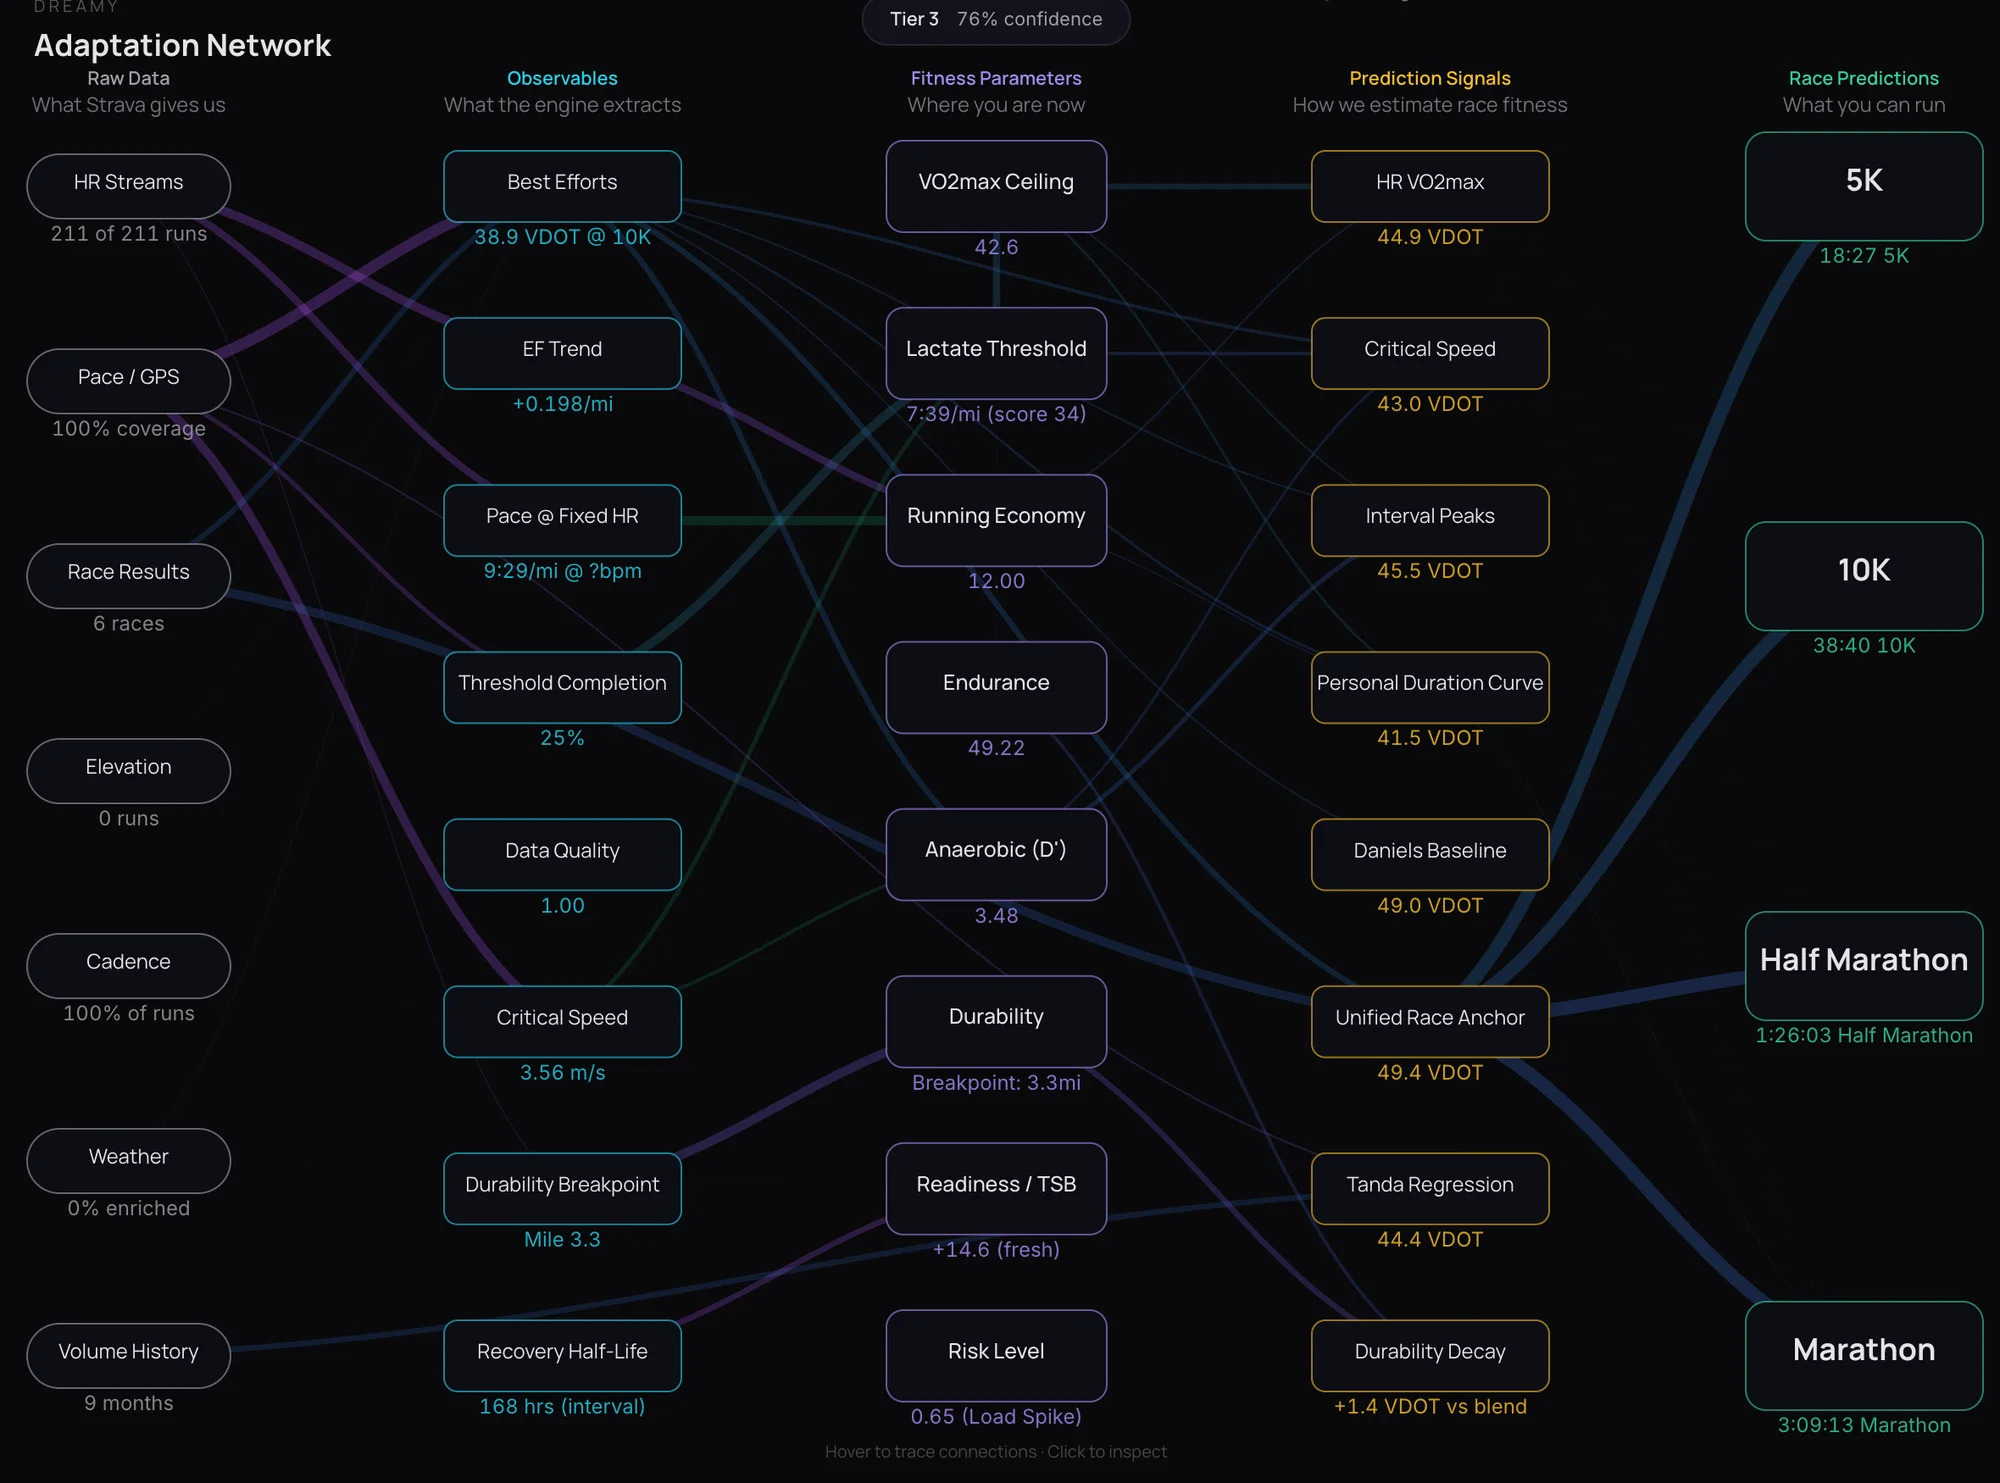
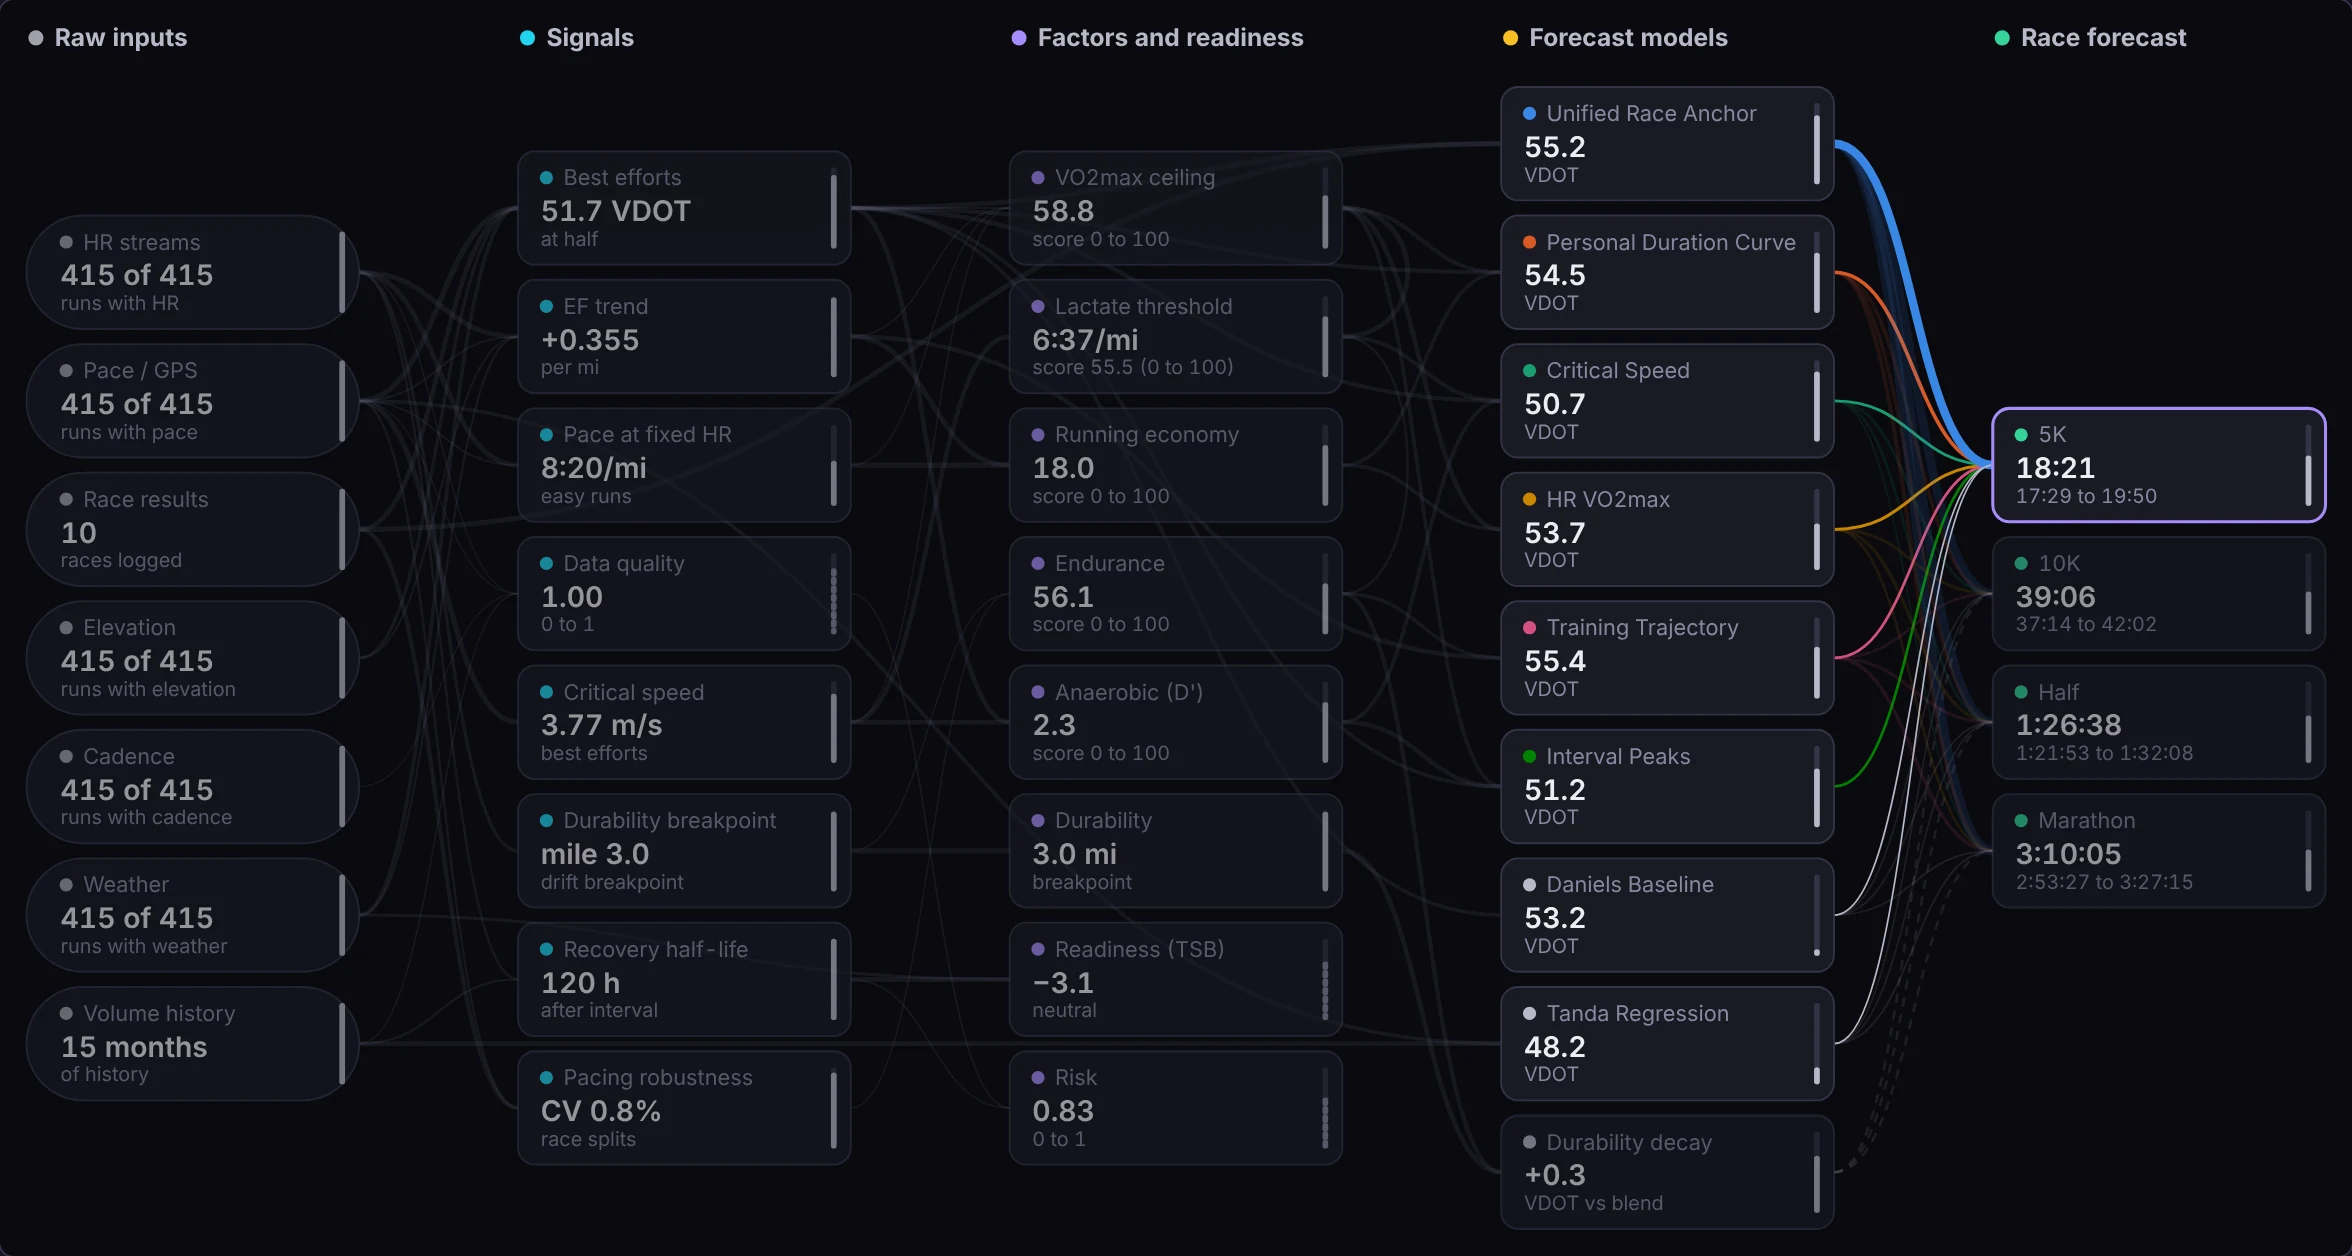
Dreamy: network screenshot shows every forecast model's blend line, no eyebrow
Claude-Session: https://claude.ai/code/session_01P2euy98vwFvpg78DoXYL2o

diff --git a/dreamy.html b/dreamy.html
@@ -1425,7 +1425,7 @@ html.lb-open { overflow: hidden; }
     <section class="sec" id="screens" aria-labelledby="sc-h">
       <h2 id="sc-h">Screenshots</h2>
       <div class="gallery">
-        <figure class="shot wide"><a href="img/dreamy-network.webp" data-full="img/dreamy-network.webp" aria-label="Full screen: The adaptation network for a demo runner: raw data such as heart rate, pace and race results on the left, what the engine extracts from it, fitness parameters like VO2max ceiling, lactate threshold and durability, the prediction signals, and race predictions for the 5K, 10K, half marathon and marathon on the right, with lines connecting each step."><img src="img/dreamy-network.webp" width="2000" height="1483" alt="The adaptation network for a demo runner: raw data such as heart rate, pace and race results on the left, what the engine extracts from it, fitness parameters like VO2max ceiling, lactate threshold and durability, the prediction signals, and race predictions for the 5K, 10K, half marathon and marathon on the right, with lines connecting each step." loading="lazy" decoding="async" style="background-color:#0E0F12"></a><figcaption>How the engine gets from run data to race predictions, for a demo runner</figcaption></figure>
+        <figure class="shot wide"><a href="img/dreamy-network.webp" data-full="img/dreamy-network.webp" aria-label="Full screen: The adaptation network for a demo runner: raw inputs such as heart rate, pace and race results on the left, the signals the engine extracts, factors like VO2max ceiling, lactate threshold and durability, ten forecast models, and race forecasts for the 5K, 10K, half marathon and marathon on the right. The 5K is selected, and every forecast model feeds it, with the Unified Race Anchor as the thickest line."><img src="img/dreamy-network.webp" width="2352" height="1256" alt="The adaptation network for a demo runner: raw inputs such as heart rate, pace and race results on the left, the signals the engine extracts, factors like VO2max ceiling, lactate threshold and durability, ten forecast models, and race forecasts for the 5K, 10K, half marathon and marathon on the right. The 5K is selected, and every forecast model feeds it, with the Unified Race Anchor as the thickest line." loading="lazy" decoding="async" style="background-color:#13141B"></a><figcaption>How the engine gets from run data to race predictions, for a demo runner</figcaption></figure>
         <figure class="shot"><a href="img/dreamy-today-crop.webp" data-full="img/dreamy-today-crop.webp" aria-label="Full screen: Today screen with a race countdown and the day's easy run."><img src="img/dreamy-today-crop.webp" width="960" height="510" alt="Today screen with a race countdown and the day's easy run." loading="lazy" decoding="async" style="background-color:#1B1B27"></a><figcaption>Today, three days before a half marathon</figcaption></figure>
         <figure class="shot"><a href="img/dreamy-week-crop.webp" data-full="img/dreamy-week-crop.webp" aria-label="Full screen: This Week screen after one swap: Wednesday's tempo became a rest day and Thursday carries the quality session."><img src="img/dreamy-week-crop.webp" width="960" height="604" alt="This Week screen after one swap: Wednesday's tempo became a rest day and Thursday carries the quality session." loading="lazy" decoding="async" style="background-color:#171723"></a><figcaption>A week after I swapped Wednesday&rsquo;s tempo for rest</figcaption></figure>
         <figure class="shot"><a href="img/dreamy-training-crop.webp" data-full="img/dreamy-training-crop.webp" aria-label="Full screen: How Is My Training: the mix is imbalanced, with a suggestion to add about 15 minutes a week of VO2max work."><img src="img/dreamy-training-crop.webp" width="960" height="450" alt="How Is My Training: the mix is imbalanced, with a suggestion to add about 15 minutes a week of VO2max work." loading="lazy" decoding="async" style="background-color:#1C1B24"></a><figcaption>Training balance, with a specific fix</figcaption></figure>
